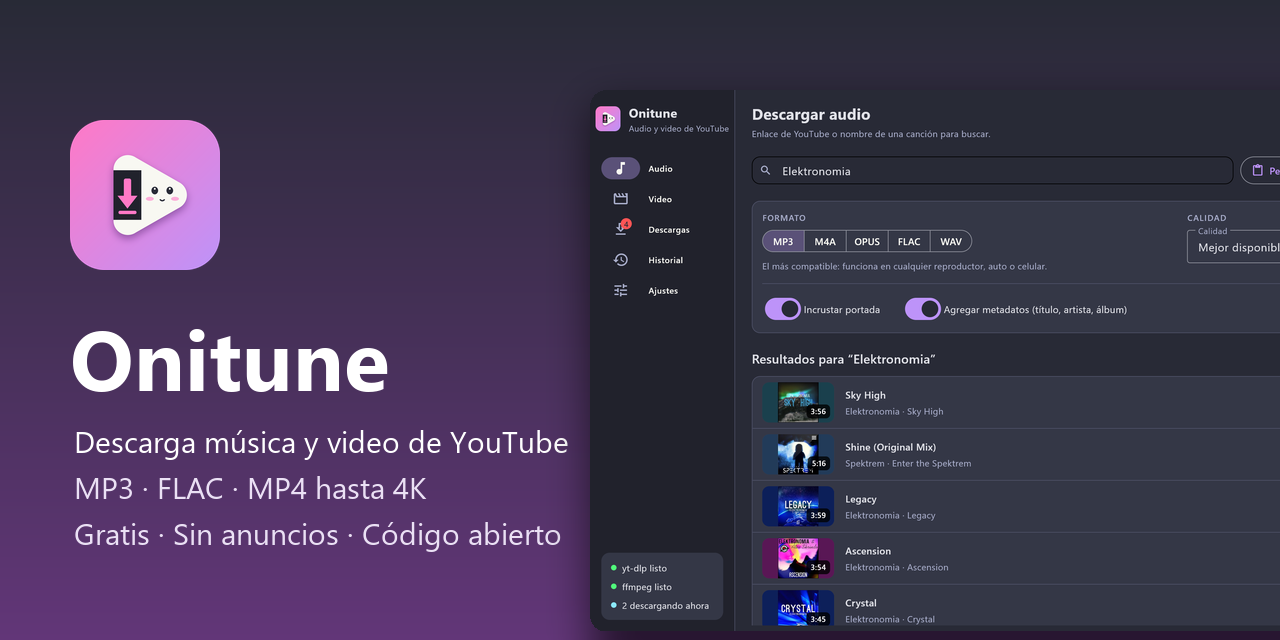
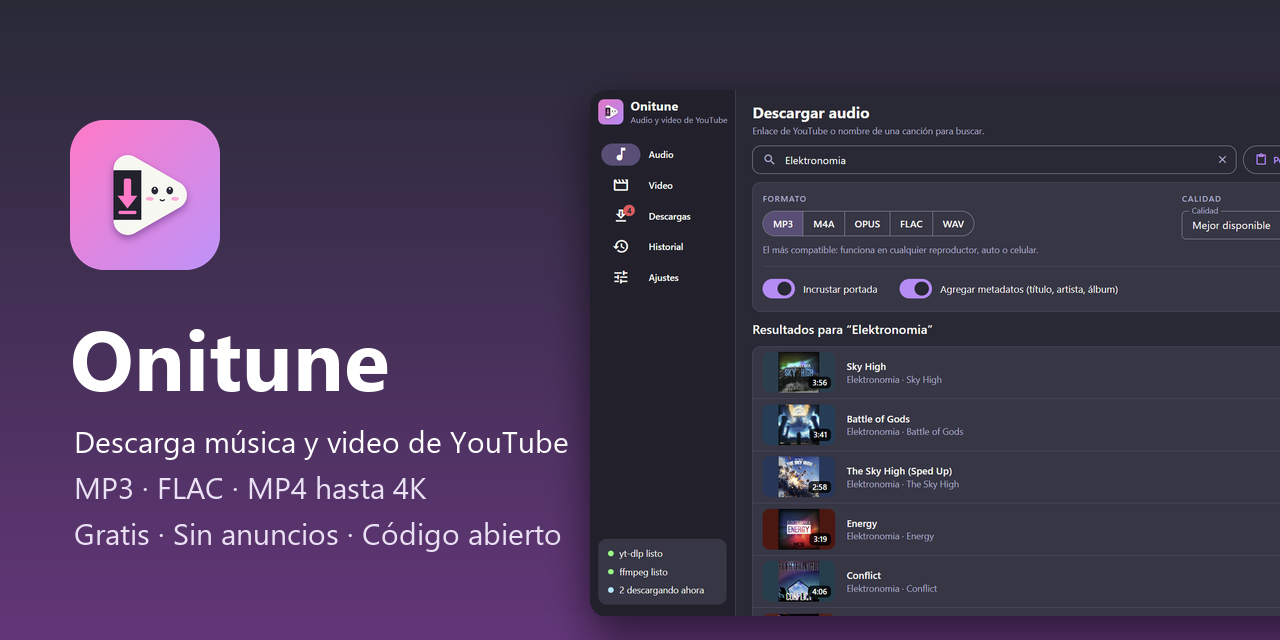
Versión 1.1.0
- Versión 1.1.0.
- Capturas del README con la interfaz nueva.
- Textos más claros en Video, Descargas y Ajustes (app y README).

Changed region(s): [[0.4375, 0.1562, 1.0, 1.0], [0.9062, 0.2812, 1.0, 0.4062], [0.9375, 0.2188, 1.0, 0.2812]]

diff --git a/onitune/ui/web/app.js b/onitune/ui/web/app.js
@@ -650,7 +650,7 @@ const Video = {
           h("div.row.small.ok-text", { style: { gap: "6px" } }, icon("check"), found)))),
       card(h("div.col", { style: { gap: "16px" } },
         h("div.col", sectionLabel("Resolución"), h("div.row.wrap", { style: { gap: "8px" } }, this.chips),
-          h("div.small.muted", { text: "Solo aparecen las calidades que este video tiene de verdad. Los tamaños son aproximados." })),
+          h("div.small.muted", { text: "Solo se muestran las calidades disponibles para este video. Los tamaños son aproximados." })),
         h("hr.divider"),
         h("div.video-grid",
           h("div.col", sectionLabel("Formato"), container, containerDesc),
@@ -707,7 +707,7 @@ const Queue = {
           iconButton("remove", "Menos", () => step(-1)), this.parallel, iconButton("add", "Más", () => step(1))),
         h("div.row", this.pauseAll, button("outlined", "Quitar completadas", "done_all", () => api.queue_all("clear_done")))),
       this.list,
-      h("div.small.muted", { text: "Las descargas pendientes se guardan: continúan al volver a abrir la app." }));
+      h("div.small.muted", { text: "Si se cierra Onitune antes de que terminen, las descargas continúan solas al abrirlo de nuevo." }));
     this.rebuild();
   },
 
@@ -976,7 +976,7 @@ const Settings = {
 
     // Portadas
     const covers = card(h("div.col", title("Portada cuadrada"),
-      note("YouTube guarda las miniaturas en formato rectangular y rellena los lados de las portadas de álbum. Recortar deja solo el cuadrado del centro, como en YouTube Music. En videos con una imagen rectangular de verdad se pierden los lados."),
+      note("YouTube guarda las miniaturas en formato rectangular y rellena los lados de las portadas de álbum. Recortar deja solo el cuadrado del centro, como en YouTube Music. Si la imagen original es rectangular, se pierden sus bordes laterales."),
       radioGroup([
         ["music", "Solo canciones de YouTube Music (búsqueda o enlaces music.youtube.com)"],
         ["audio", "Todas las descargas de audio"],

diff --git a/onitune/__init__.py b/onitune/__init__.py
@@ -1,5 +1,5 @@
 """Onitune: descarga audio y video de YouTube con una interfaz gráfica."""
 
 APP_NAME = "Onitune"
-APP_VERSION = "1.0.0"
+APP_VERSION = "1.1.0"
 REPO_URL = "https://github.com/angelqqi/Onitune"

diff --git a/README.md b/README.md
@@ -28,7 +28,7 @@
 - **Portada cuadrada:** recorta la miniatura de YouTube para que la portada quede cuadrada, como en YouTube Music. Se elige en Ajustes si se aplica a canciones de YouTube Music, a todo el audio, al video o a nada.
 - **Video:** analiza el enlace y muestra solo las resoluciones que ese video tiene. MP4 o MKV, con subtítulos incrustados o en un archivo aparte.
 - **Playlists:** muestra la lista para seleccionar qué videos descargar.
-- **Descargas:** varias a la vez, con pausa, reanudación, cancelación y reintento. Las pendientes se guardan al cerrar la app.
+- **Descargas:** varias a la vez; cada una se puede pausar, reanudar, cancelar o reintentar. Si se cierra la app, continúan al abrirla de nuevo.
 - **Historial:** buscar, filtrar, abrir el archivo o la carpeta, volver a descargar y borrar (de a uno o todo de una vez).
 - **Temas:** 14 temas de color (Drácula, Alucard, Tokyo Night, Catppuccin, Nord, Gruvbox, Rosé Pine, Solarized…) que se eligen en Ajustes.
 - **Extras:** detecta enlaces de YouTube copiados, usa cookies del navegador (para videos con restricción de edad), muestra avisos del sistema y avisa cuando hay una versión nueva de Onitune.
@@ -41,12 +41,12 @@ Escribe un artista o una canción y elige entre los resultados de YouTube Music.
 <img src="docs/capturas/audio.png" alt="Pestaña Audio: búsqueda con resultados, formatos MP3, M4A, OPUS, FLAC y WAV">
 
 ### Video en la calidad que quieras
-Al pegar un enlace, Onitune muestra solo las calidades que ese video tiene de verdad (hasta 4K y 60 fps).
+Al pegar un enlace, Onitune muestra solo las calidades disponibles para ese video (hasta 4K y 60 fps).
 
 <img src="docs/capturas/video.png" alt="Pestaña Video: calidades disponibles de 144p a 2160p 4K, formato MP4 o MKV y subtítulos">
 
 ### Varias descargas a la vez
-Pausa, reanuda o cancela cada una. Si cierras la app, las pendientes siguen la próxima vez.
+Cada descarga se puede pausar, reanudar o cancelar. Si se cierra Onitune antes de que terminen, continúan solas al abrirlo de nuevo.
 
 <img src="docs/capturas/descargas.png" alt="Pestaña Descargas: dos descargando con barra de progreso, una en pausa, una en espera y una completada">
 
